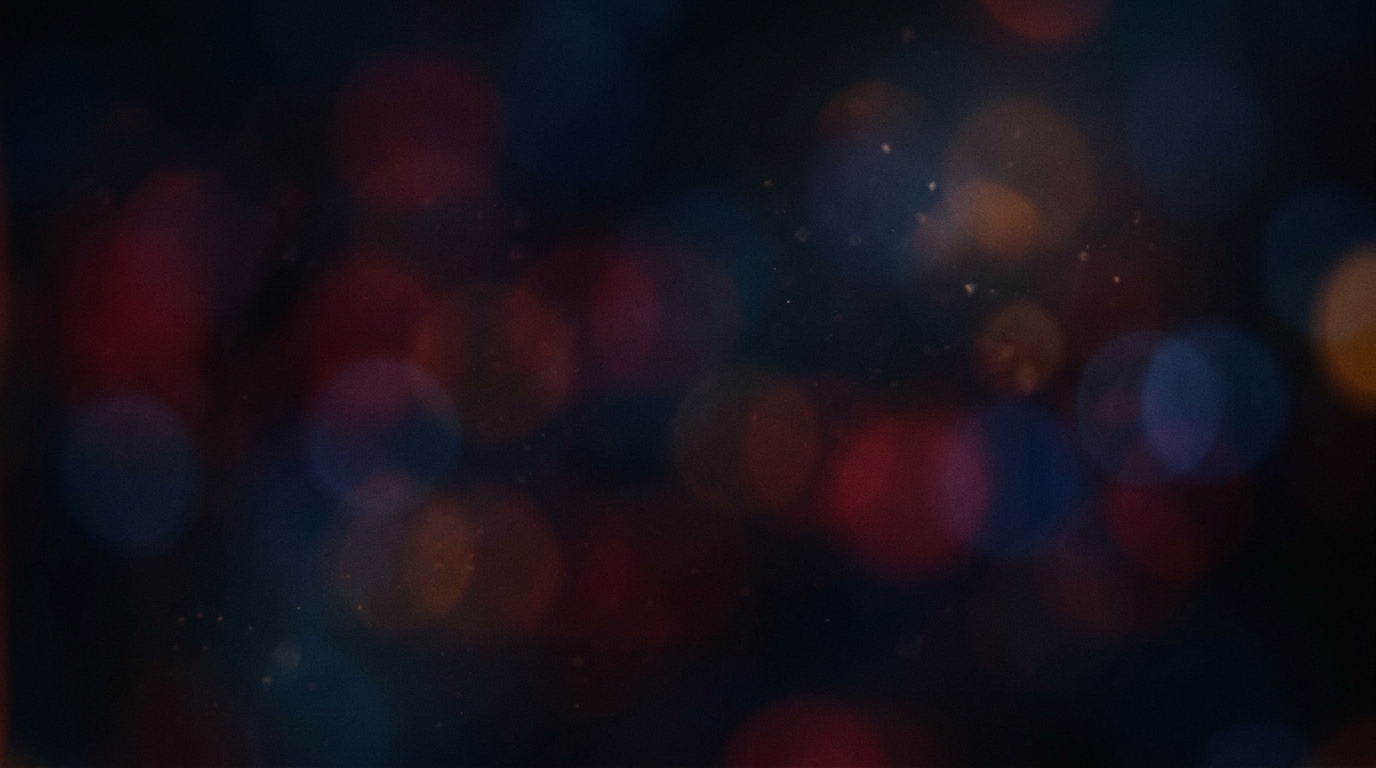
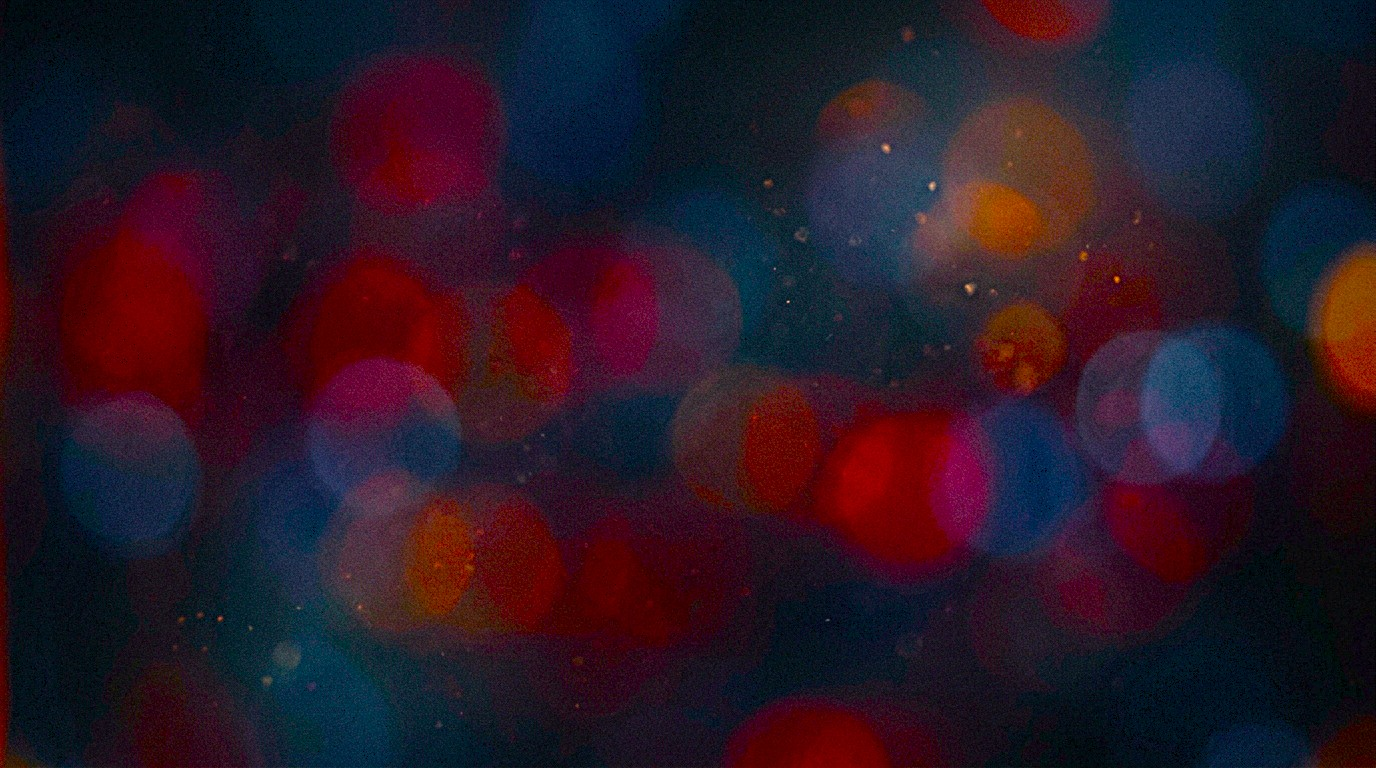
chore: initialize backend server and install dependencies

diff --git a/Streaming-Site/src/App.css b/Streaming-Site/src/App.css
@@ -19,7 +19,7 @@ body::before {
     right: -20px;
     bottom: -20px;
     /* Oversize slightly to hide blurred edges */
-    background-image: url("./assets/bg.jpg");
+    background-image: linear-gradient(rgba(11, 12, 16, 0.7), rgba(11, 12, 16, 0.75)), url("./assets/bg.jpg");
     background-size: cover;
     background-position: center;
     filter: blur(8px);
@@ -336,6 +336,17 @@ body::before {
 /* .movie-poster:hover {
     box-shadow: 10 20px 50px rgb(51, 255, 0);
 } */
+/* Only trigger when an actual movie card is hovered inside the grid! */
+/* Only trigger when an actual movie card is hovered inside the grid! */
+.movies-grid:has(.movie-card:hover) .movie-card:not(:hover) {
+    filter: saturate(20%) opacity(0.5);
+    transition: filter 0.3s ease, opacity 0.3s ease, transform 0.3s ease;
+}
+
+.movies-grid .movie-card:hover {
+    filter: saturate(100%) opacity(1);
+    transform: translateY(-8px) scale(1.03);
+}
 
 
 .movie-info {
@@ -890,10 +901,10 @@ body::before {
 }
 
 .card-eye-btn.watched:hover {
-    background: rgba(239, 68, 68, 0.9);
-    /* Red on hover to show unwatching */
-    border-color: rgba(239, 68, 68, 1);
-    box-shadow: 0 0 12px rgba(239, 68, 68, 0.5);
+    background: rgba(34, 197, 94, 1); /* Stays vibrant green on hover */
+    border-color: rgba(34, 197, 94, 1);
+    box-shadow: 0 0 16px rgba(34, 197, 94, 0.8);
+    transform: scale(1.1);
 }
 
 /* Static search icon inside search bar (lag-free, mobile optimized) */
@@ -949,9 +960,11 @@ body::before {
     width: 22px;
     height: 22px;
 }
+
 /* Hero Banner Watchlist Active State - Emerald Green */
 .btn-secondary.in-watchlist {
-    background: rgba(34, 197, 94, 0.85); /* Modern emerald green */
+    background: rgba(34, 197, 94, 0.85);
+    /* Modern emerald green */
     border-color: rgba(34, 197, 94, 1);
     color: #ffffff;
     box-shadow: 0 0 20px rgba(34, 197, 94, 0.45);
@@ -961,4 +974,43 @@ body::before {
     background: rgba(34, 197, 94, 1);
     box-shadow: 0 0 25px rgba(34, 197, 94, 0.7);
     transform: scale(1.03);
+}
+/* Search & Watchlist Modal Cards Desaturation Hover */
+.search-results-grid:has(.movie-card:hover) .movie-card:not(:hover) {
+    filter: saturate(20%) opacity(0.5);
+    transition: filter 0.3s ease, opacity 0.3s ease, transform 0.3s ease;
+}
+
+.search-results-grid .movie-card:hover {
+    filter: saturate(100%) opacity(1);
+    transform: translateY(-8px) scale(1.03);
+}
+
+/* When search or watchlist overlay is open, desaturate the background content (hero banner, trending grid) */
+.app-container:has(.search-overlay) .main-content {
+    filter: saturate(20%) opacity(0.4);
+    transition: filter 0.4s ease, opacity 0.4s ease;
+    pointer-events: none; /* Prevents accidentally clicking items behind the modal */
+}
+
+/* When movie is in watchlist, card gets green styling */
+.movie-card.card-saved {
+    border-color: rgba(34, 197, 94, 0.5);
+}
+
+.movie-card.card-saved .movie-info {
+    background-color: rgba(34, 197, 94, 0.9); /* Green info background (name & rating) */
+    color: #ffffff;
+    transition: background-color 0.3s ease;
+}
+
+/* Hovering a saved card glows green instead of red */
+.movie-card.card-saved:hover {
+    border-color: rgba(34, 197, 94, 0.8);
+    box-shadow: 0 20px 50px rgba(34, 197, 94, 0.45);
+    background-color: rgba(34, 197, 94, 0.95);
+}
+
+.movie-card.card-saved:hover .movie-info {
+    background-color: rgba(34, 197, 94, 1);
 }

diff --git a/Streaming-Site/src/App.jsx b/Streaming-Site/src/App.jsx
@@ -5,7 +5,7 @@ import './App.css'
 
 function MovieCard({ id, title, rating, posterUrl, isWatched, onToggleWatch }) {
   return (
-    <div className='movie-card'>
+    <div className={`movie-card ${isWatched ? 'card-saved' : ''}`}>
       <button
         className={`card-eye-btn ${isWatched ? 'watched' : ''}`}
         onClick={(e) => {
@@ -155,8 +155,8 @@ function App() {
                 title={movie.title}
                 rating={movie.rt_score}
                 posterUrl={movie.image}
-                isWatched={!!watchedMovies[movie.id]}
-                onToggleWatch={toggleWatch}
+                isWatched={watchlist.some((m) => m.id === movie.id)}
+                onToggleWatch={() => toggleWatchlist(movie)}
               />
             ))}
           </div>
@@ -211,7 +211,6 @@ function App() {
         <main className='main-content'>
           {/* the whole container of the hero part*/}
           {movies.length > 0 && (
-
             <div
               className='hero-banner'
               style={{ backgroundImage: `linear-gradient(to top, #0b0c10 0%, rgba(11, 12, 16, 0.2) 100%), url(${movies[0].movie_banner})` }}
